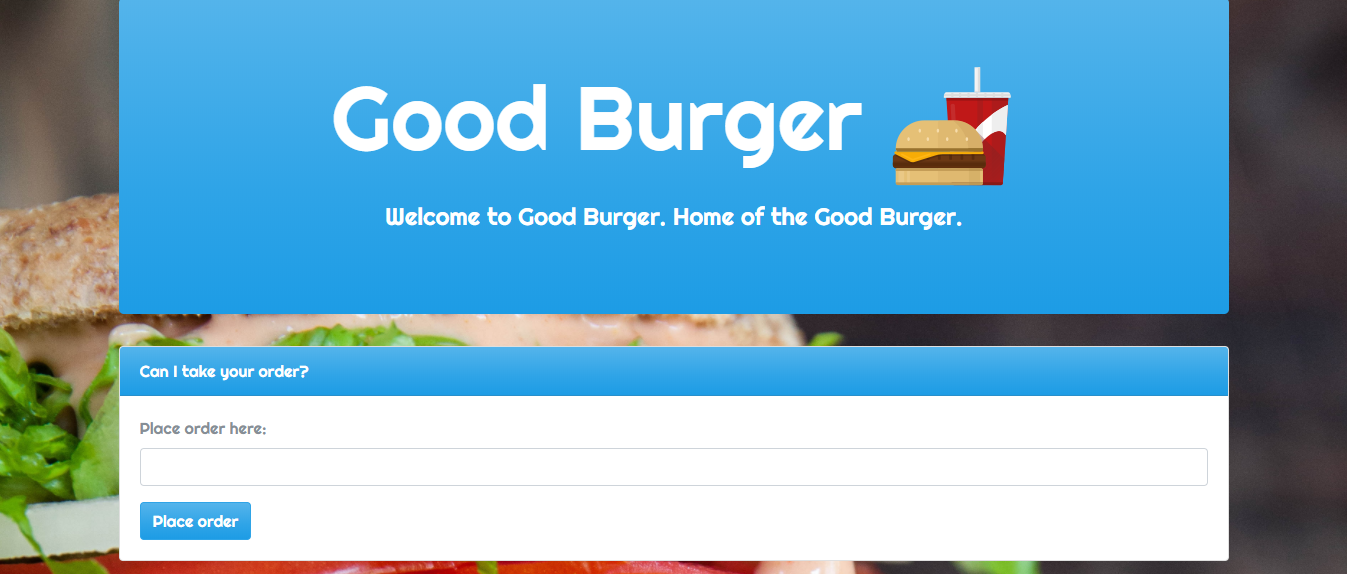
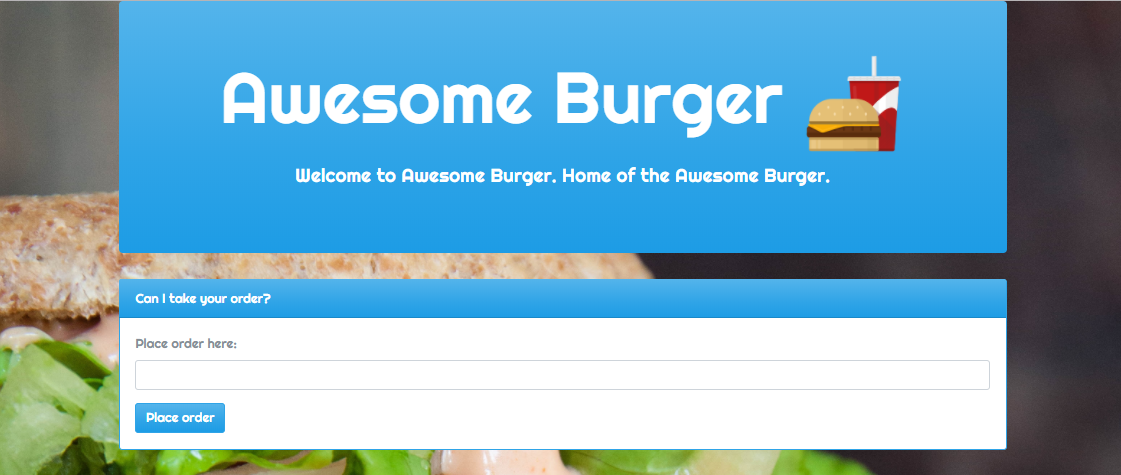
Updated readme title. Added photo attribution to footer.

diff --git a/README.md b/README.md
@@ -1,4 +1,4 @@
-# Good Burger
+# Awesome Burger
 <p>A full stack, MVC (Model-View-Controller) application that allows you to create burgers (POST), view a list of burgers available to eat (GET), devour burgers (PUT), and throw them away after devoured (DELETE).</p>
 <img src="./public/assets/img/cheeseburger.png">
 
@@ -20,20 +20,24 @@ https://gentle-caverns-56054.herokuapp.com/
 
 ## <a name="about-this-project"></a> About this project
 
+  * [How the app works](#how-app-works)
+  * [How the app is built](#how-the-app-is-built)
+  * [MVC design pattern](#about-mvc)
+ 
 ### <a name="how-app-works"></a> How the app works
 This project is a full stack application that allows you to place an order for a burger. When you place an order, the burger you enter in the form field is added to the list of burgers on the left side of the screen. Each burger in the list has a <b>Devour me</b> button. Clicking this button moves the burger from the list on the left side of the screen to the list on the right. The list on the right is a list of burgers that have already been devoured. Each burger in this list has a <b>Throw away</b> button that allows you to remove the burger, which deletes the burger from the user interface as well as from the MySQL database. 
 
 ### <a name="how-the-app-is-built"></a> How the app is built
-This project uses MySQL, Node, Express, Handlebars, and an ORM (Object Relational Mapper). Node and MySQL are used to query and route data in the application. Express is the backend web framework used for this application, and Handlebars is a templating language that is used to generate the HTML.
+This project uses MySQL, Node, Express, Handlebars, ORM (Object Relational Mapper). Node and MySQL are used to query and route data in the application. Express is the backend web framework used for this application, and Handlebars is a templating language that is used to generate the HTML.
 
-### <a name="about-mvc"></a> About MVC
+### <a name="about-mvc"></a> MVC design pattern
 This project also follows the MVC (Model-View-Controller) design pattern. The MVC design pattern assigns objects in the application one of three roles (model, view, or controller) and defines the way the different parts of the application communicate with one another.
 
   * <b>View object:</b>
   A view object is an object in the application that is visible (in the user interface) to the end user of the application. The view displays data from the application's model and learns about any changes to the model data via the controller. For example, in this application, the user enters a burger name in a text field. The view communicates the user input via the controller to the model.
 
   * <b>Controller object:</b>
-  A controller object controls the flow of data between the view and the model (that is, the controller is an intermediary between the two). The controller interprets any user changes made in the view and communicates the new or changed data to the model. Also, if the model were to change, the controller is what communicates the updated data to the view so that the user can see the updated data in the user interface.
+  A controller object controls the flow of data between the view and the model (that is, the controller is an intermediary between the two). The controller interprets any user changes made in the view and communicates the changed data to the model. Also, if the model were to change, the controller is what communicates the updated data to the view so that the user can see the updated data in the user interface.
 
   * <b>Model object:</b>
   A model object manages the data. When data is created or changed by the user in the view (for example, a user devours or throws away a burger), that change is communicated via the controller to the model. Also, when data is created or changed in the model, the model communicates that change via the controller to the view, and the view displays the updated data to the user.
@@ -212,7 +216,7 @@ node server.js
 
 ## <a name="screenshots"></a> Screenshots
 
-### Welcome to Good Burger
+### Welcome to Awesome Burger
 <img src="readme_images/home2.png">
 <br>
 <br>
